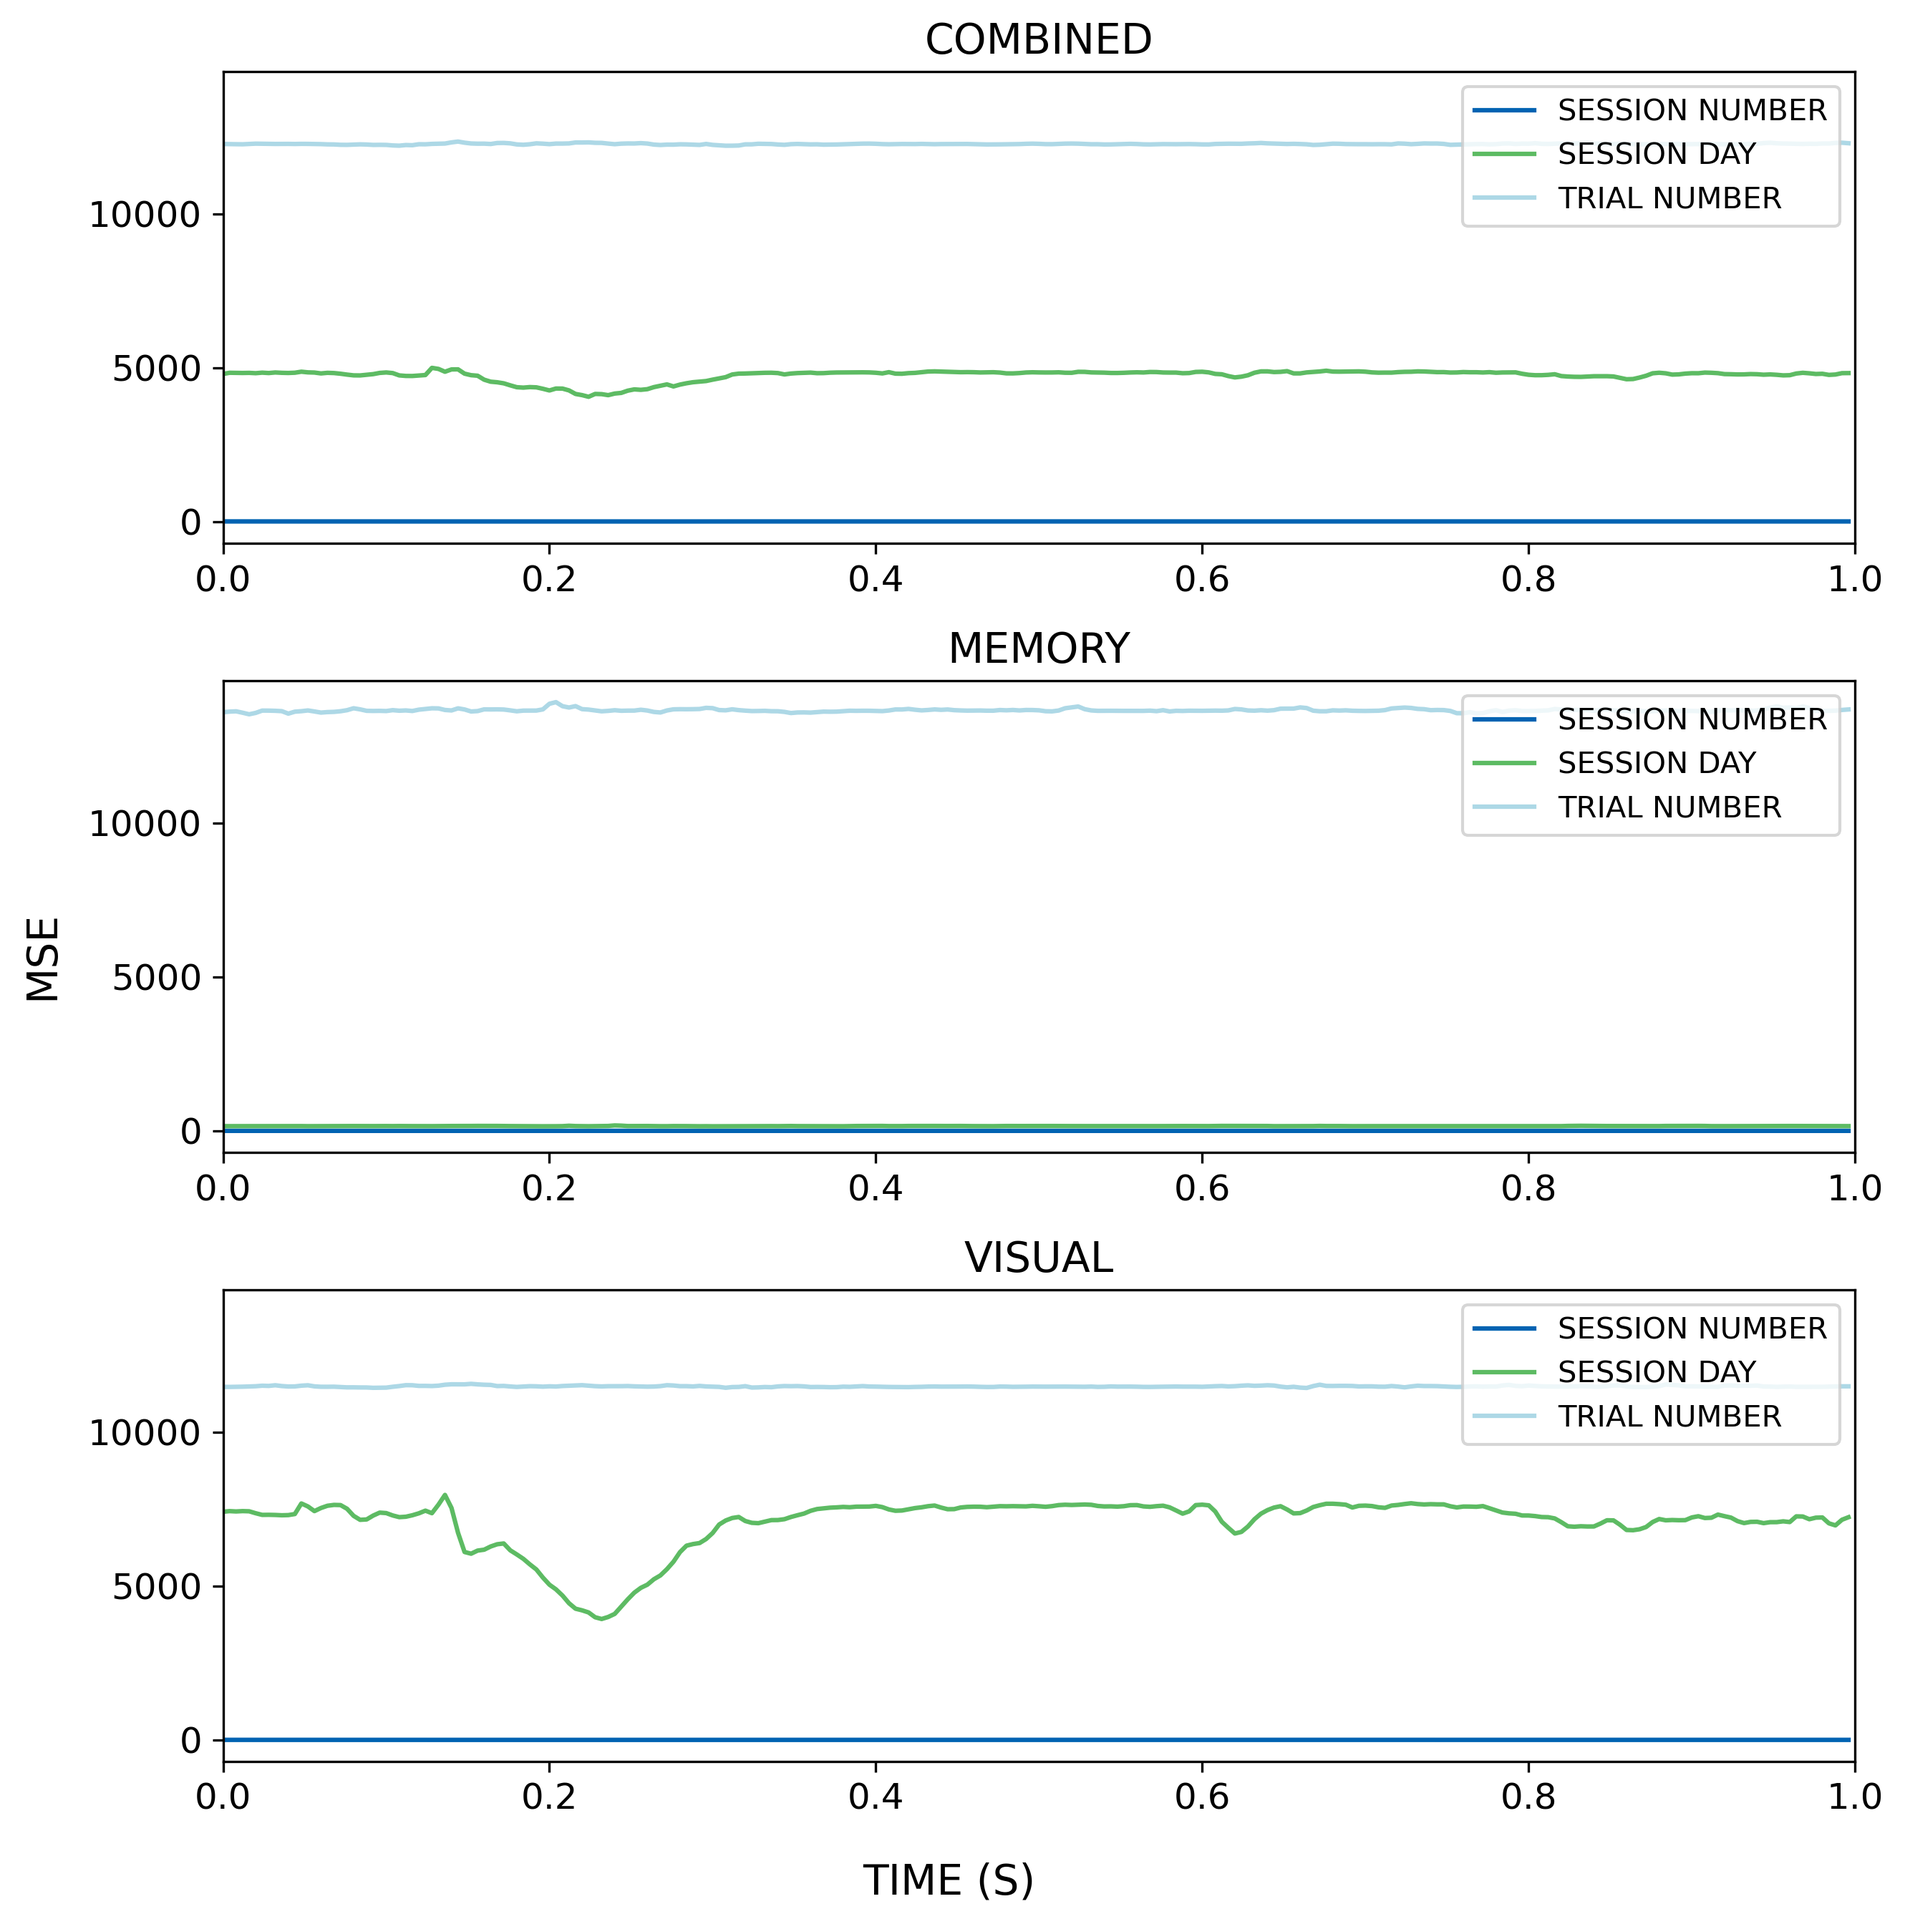
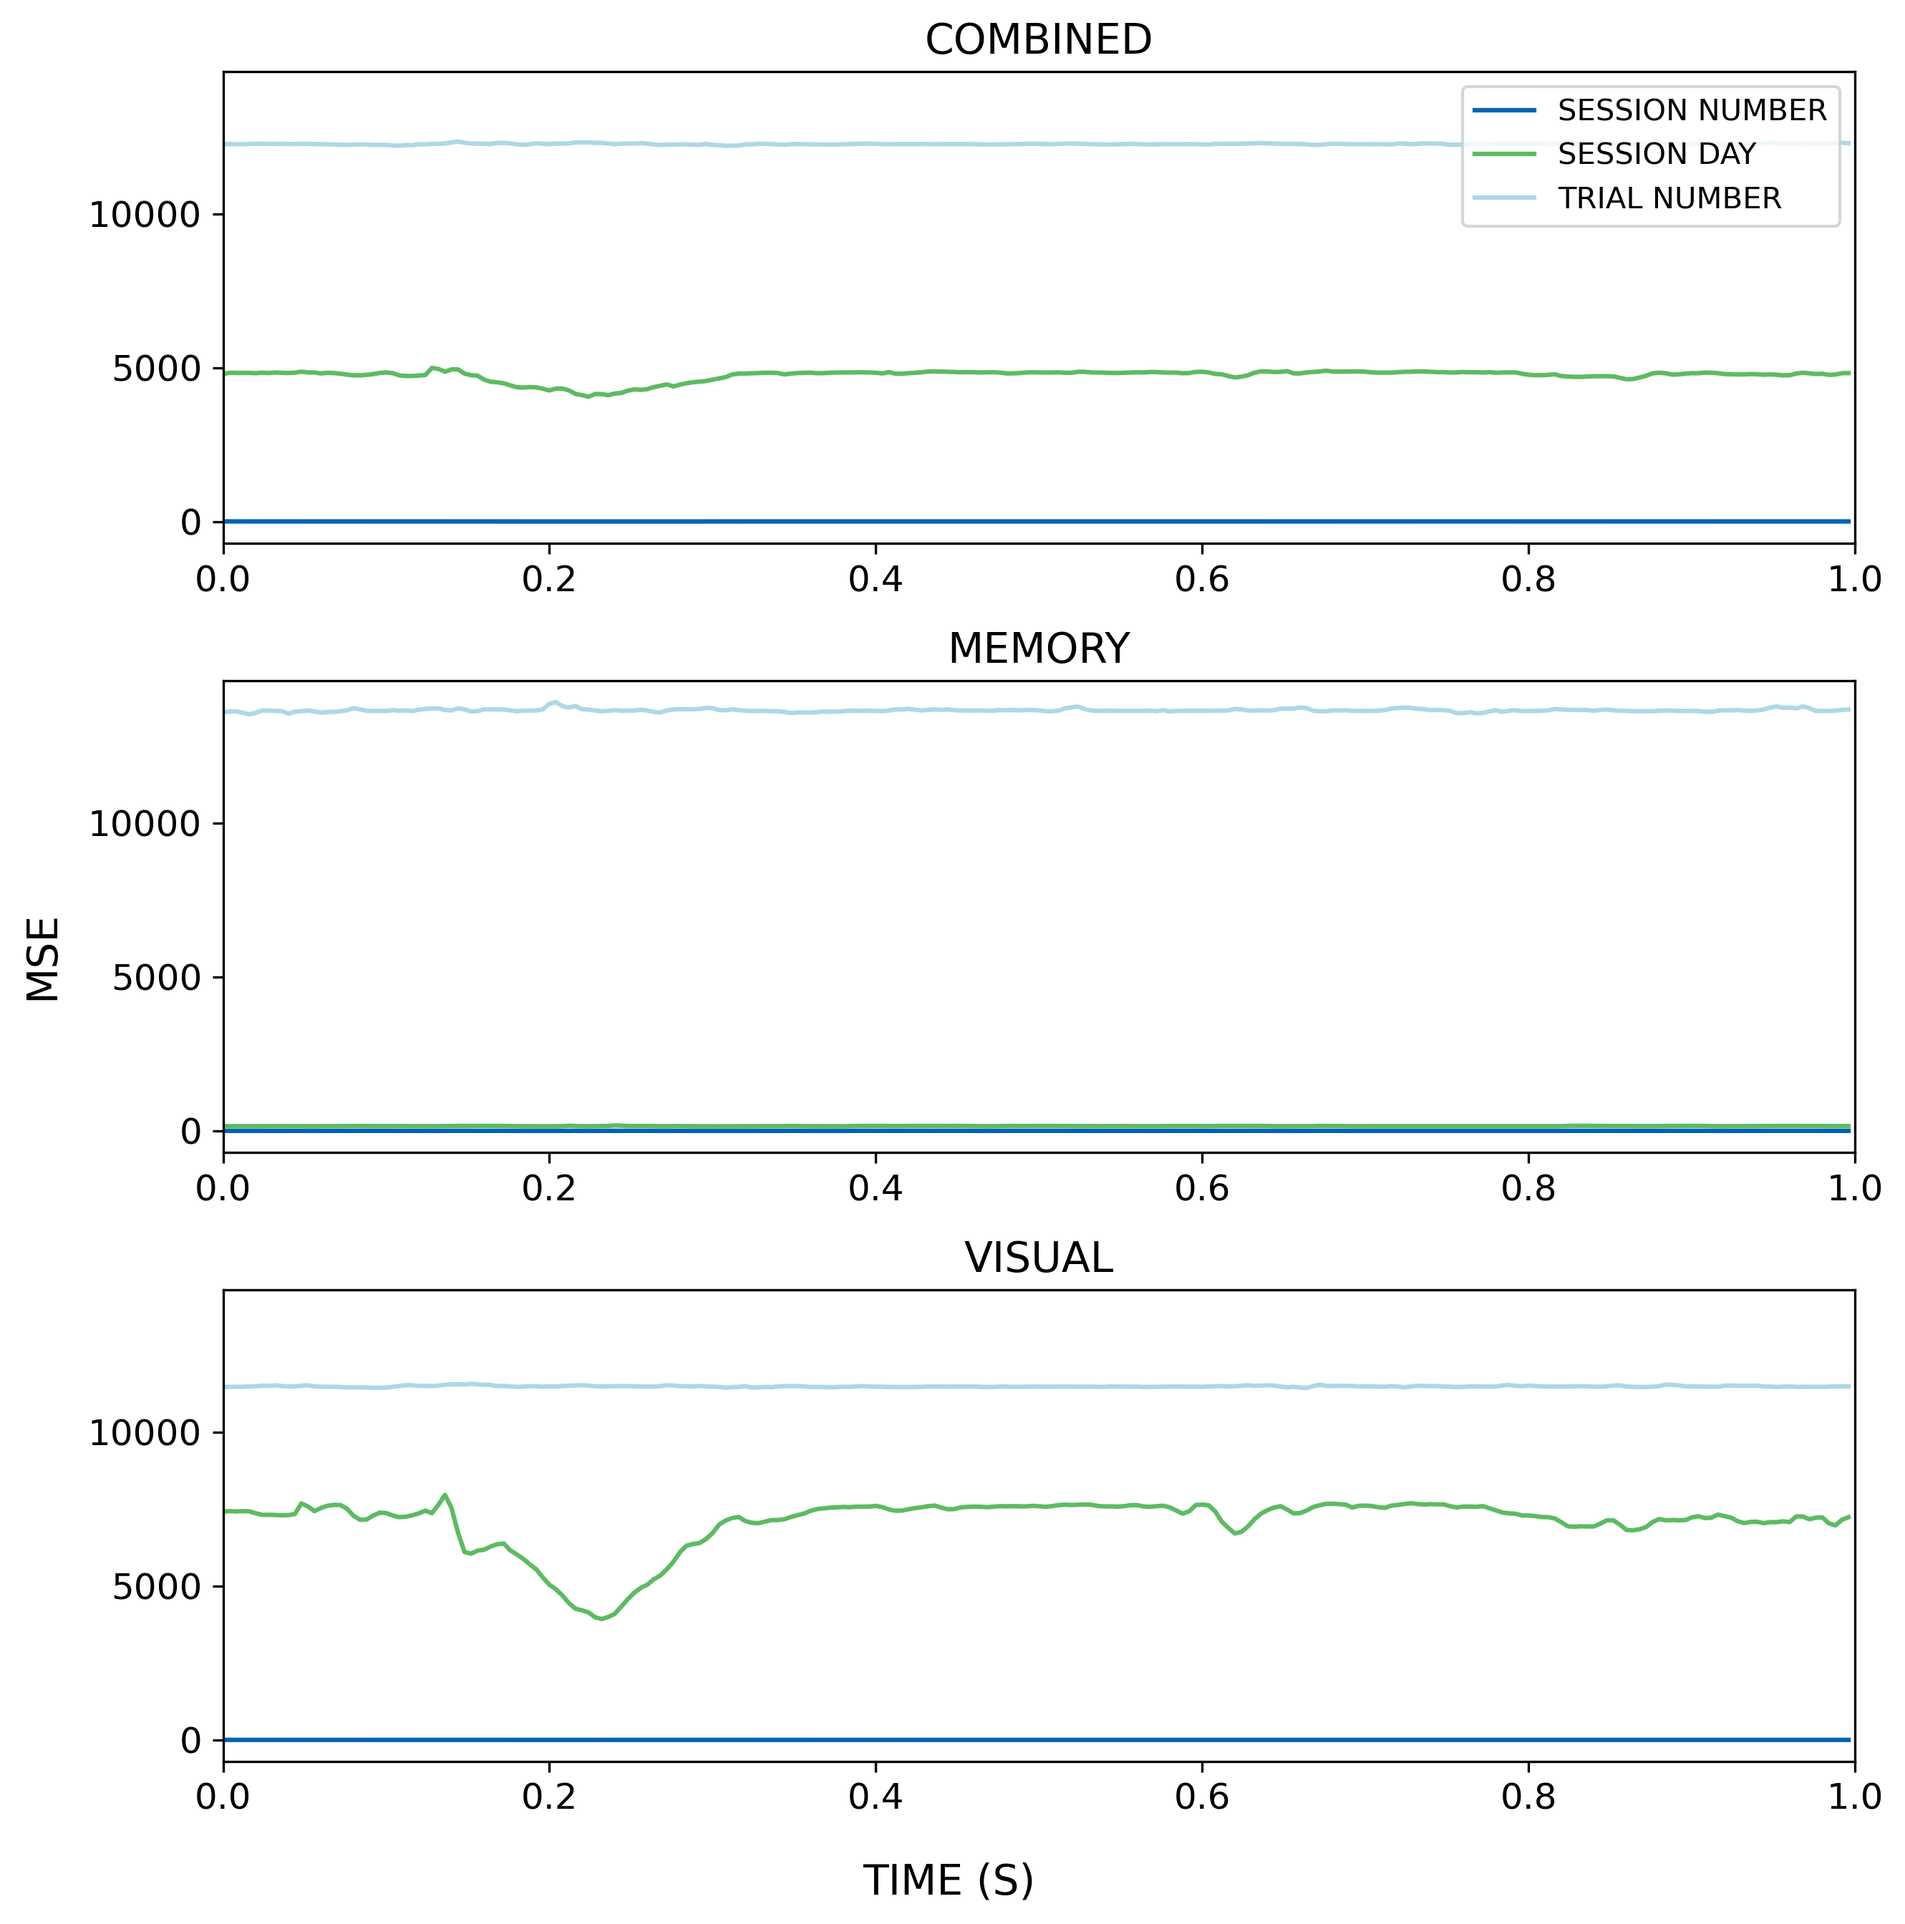
only legend on first axis

Changed region(s): [[0.7798, 0.3438, 0.9669, 0.4375], [0.7798, 0.6875, 0.9669, 0.75]]

diff --git a/decoding/time_elapsed/plot_results.py b/decoding/time_elapsed/plot_results.py
@@ -145,12 +145,14 @@ def plot_diagonals(tgm_dict, measurement = "MSE", save_path = None, trial_type =
 
         for ax in axs:
             ax.set_xticks(np.arange(0, 251, step=50), [0. , 0.2, 0.4, 0.6, 0.8, 1. ])
-            ax.legend(loc='upper right')
             ax.set_xlim(0, 250)
 
         # add a title to the figure
         fig.supylabel(measurement.upper())
         fig.supxlabel('Time (s)'.upper())
+
+        # place legend on the top axis
+        axs[0].legend(loc='upper right')
 
         # tight layout
         fig.tight_layout()
